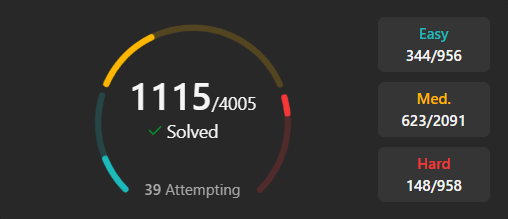
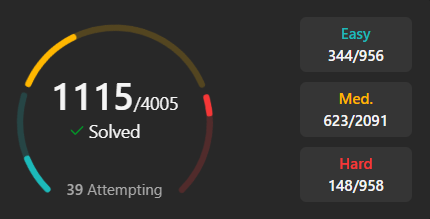
updated leetcode profile

diff --git a/src/sections/About.js b/src/sections/About.js
@@ -94,7 +94,7 @@ export default function About() {
               return (
                 <a
                   key={stat.label}
-                  href="https://leetcode.com/u/gurdeep2001/"
+                  href="https://leetcode.com/u/08_gurdeep/"
                   target="_blank"
                   rel="noreferrer"
                   className={`stat-item stat-leetcode fade-in ${
